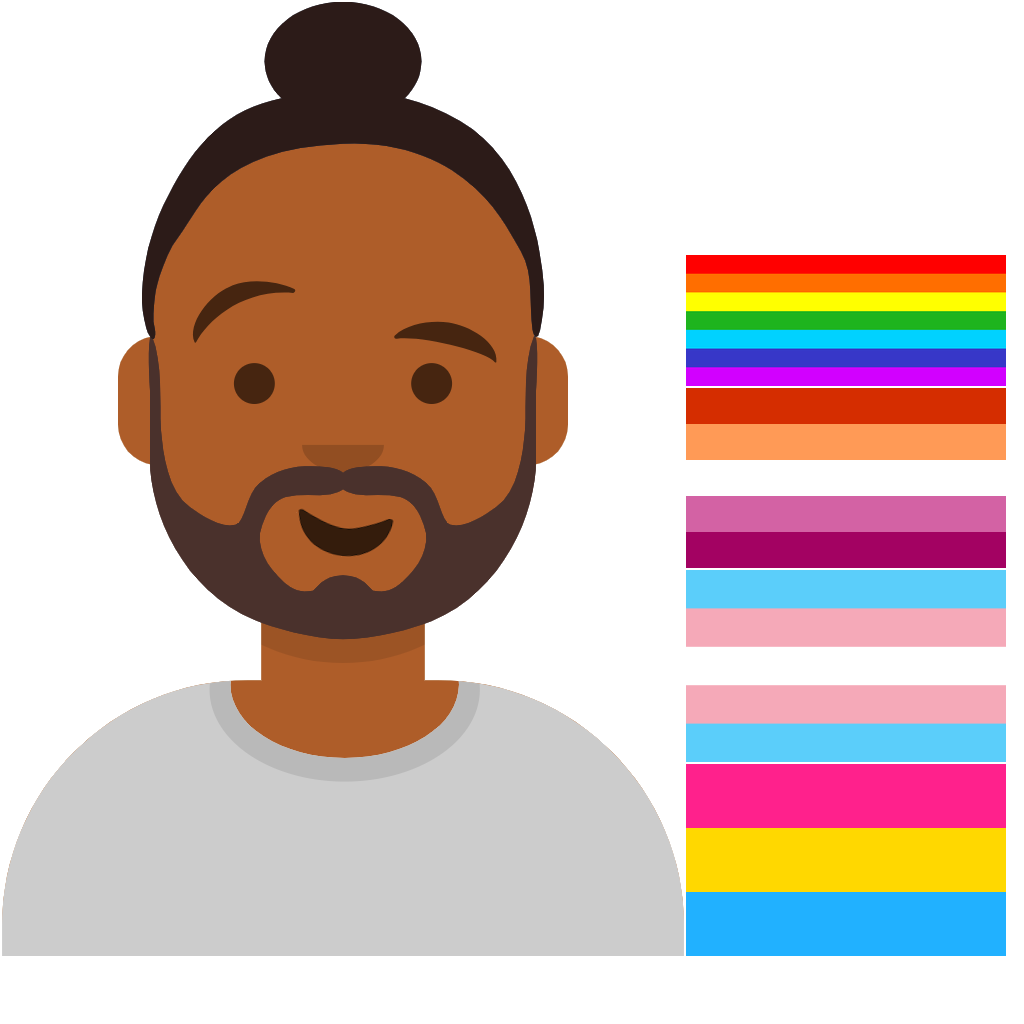
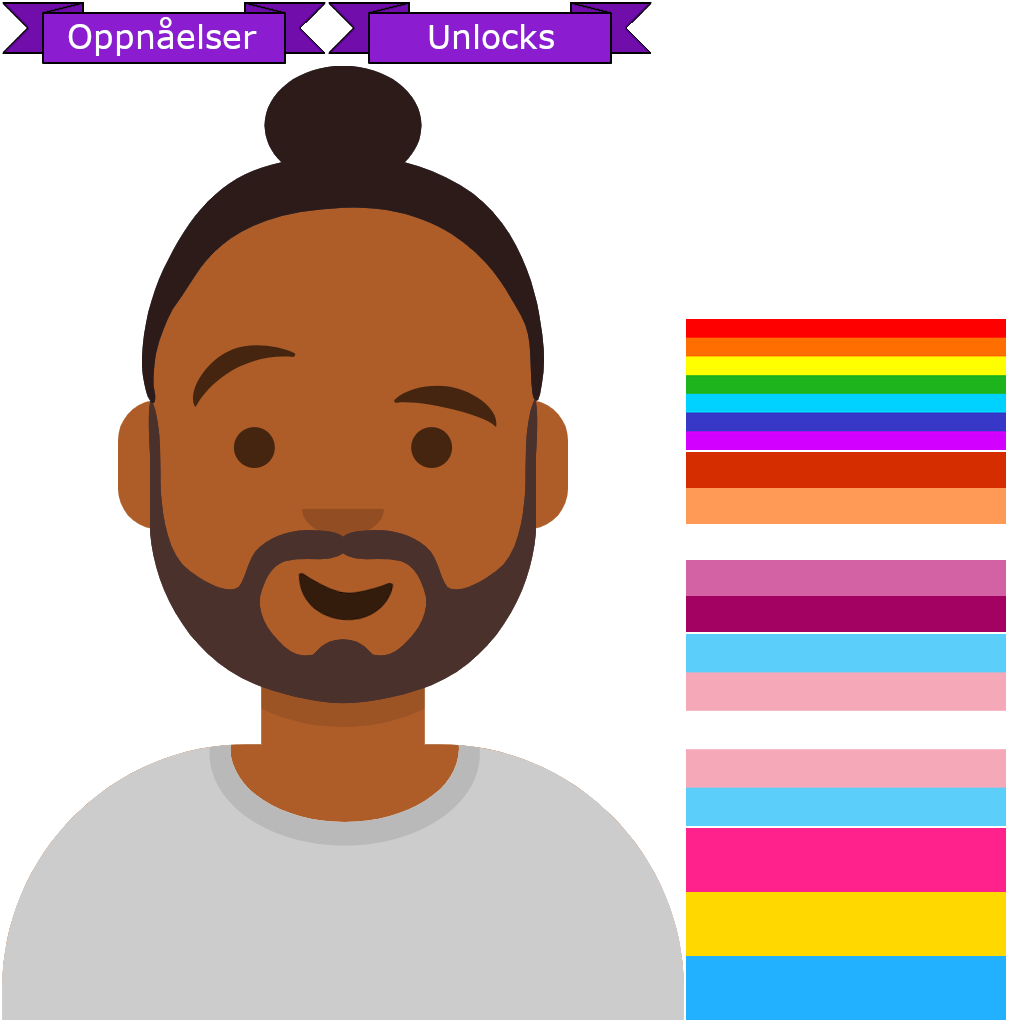
styled unlocks

diff --git a/core/src/no/sandramoen/loveentity/screens/gameplay/UnlocksScreen.kt b/core/src/no/sandramoen/loveentity/screens/gameplay/UnlocksScreen.kt
@@ -20,19 +20,20 @@ import no.sandramoen.loveentity.utils.GameUtils
 class UnlocksScreen : BaseScreen() {
     private lateinit var infoTable: Table
     private lateinit var exitButton: Button
+    private lateinit var titleImage: Image
 
     override fun initialize() {
-        val titleLabel = Label("Unlocks", BaseGame.labelStyle)
-        if (!BaseGame.english)
-            titleLabel.setText("Oppnåelser")
-        titleLabel.setFontScale(.7f)
+        if (BaseGame.english)
+            titleImage = Image(BaseGame.textureAtlas!!.findRegion("bannerUnlocks"))
+        else
+            titleImage = Image(BaseGame.textureAtlas!!.findRegion("bannerOppnåelser"))
 
         // main exit button
         val exitButtonStyle = Button.ButtonStyle()
         exitButtonStyle.up = TextureRegionDrawable(TextureRegion(BaseGame.textureAtlas!!.findRegion("cross-white")))
         exitButton = Button(exitButtonStyle)
         exitButton.isTransform = true
-        exitButton.scaleBy(-.5f)
+        exitButton.scaleBy(-.25f)
         exitButton.setOrigin(Align.top)
         exitButton.addListener { e: Event ->
             if (GameUtils.isTouchDownEvent(e))
@@ -83,16 +84,20 @@ class UnlocksScreen : BaseScreen() {
         subtitleLabel.setFontScale(.4f)
         subtitleLabel.color = Color.PURPLE
         val descriptionLabel = Label("Want to maximize your love? Unlock these for a sweet lovin' bonus", BaseGame.labelStyle)
-        if (!BaseGame.english) descriptionLabel.setText("Har du lyst å maksimere din kjærllighet? Oppnå disse for en ekstra bonus!")
+        if (!BaseGame.english) descriptionLabel.setText("Har du lyst å maksimere din kjærlighet? Oppnå disse for en ekstra bonus!")
         descriptionLabel.setWrap(true)
         descriptionLabel.setFontScale(.3f)
         descriptionLabel.setAlignment(Align.center)
 
         val upperTable = Table()
-        upperTable.add(titleLabel).expandX().center()
-        upperTable.add(exitButton).row()
-        upperTable.background = TextureRegionDrawable(TextureRegion(BaseGame.textureAtlas!!.findRegion("whitePixel"))).tint(Color(.2f, .2f, .2f, 1f))
+        upperTable.add(titleImage).width(Gdx.graphics.width * .95f).height(Gdx.graphics.height * .1f)
+        // upperTable.background = TextureRegionDrawable(TextureRegion(BaseGame.textureAtlas!!.findRegion("whitePixel"))).tint(Color(.2f, .2f, .2f, 1f))
         // upperTable.debug = true
+
+        val exitTable = Table()
+        exitTable.setFillParent(true)
+        exitTable.add(exitButton).top().right().pad(Gdx.graphics.width * .01f)
+        uiTable.add(exitTable)
 
         // unlocks table
         val unlocksTable = Table()
@@ -140,11 +145,10 @@ class UnlocksScreen : BaseScreen() {
         }
 
         val table = Table()
-        table.add(subtitleLabel).padTop(25f).align(Align.right)
-        table.add(infoButton).width(Gdx.graphics.width * .06f).height(Gdx.graphics.width * .06f).row()
-        table.add(descriptionLabel).right().padBottom(10f).width(Gdx.graphics.width * .85f).colspan(2).row()
+        // table.add(subtitleLabel).padTop(25f).align(Align.right)
+        // table.add(infoButton).width(Gdx.graphics.width * .06f).height(Gdx.graphics.width * .06f).row()
+        table.add(descriptionLabel).padBottom(10f).width(Gdx.graphics.width * .85f).colspan(2).row()
         table.add(unlocksTable).align(Align.center).colspan(2)
-        table.background = TextureRegionDrawable(TextureRegion(BaseGame.textureAtlas!!.findRegion("whitePixel"))).tint(Color(.05f, .05f, .05f, 1f))
         // table.debug = true
 
         // table layout
